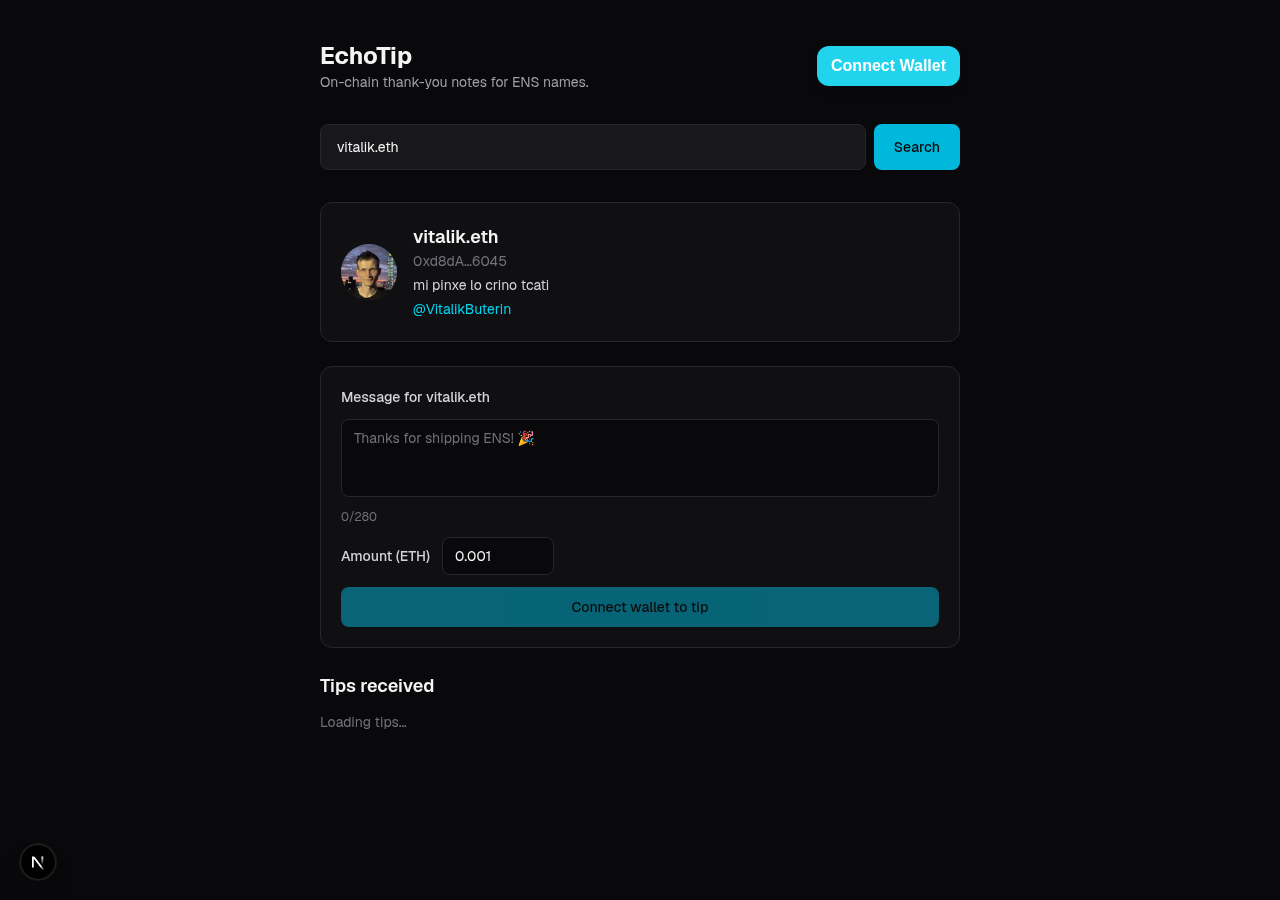
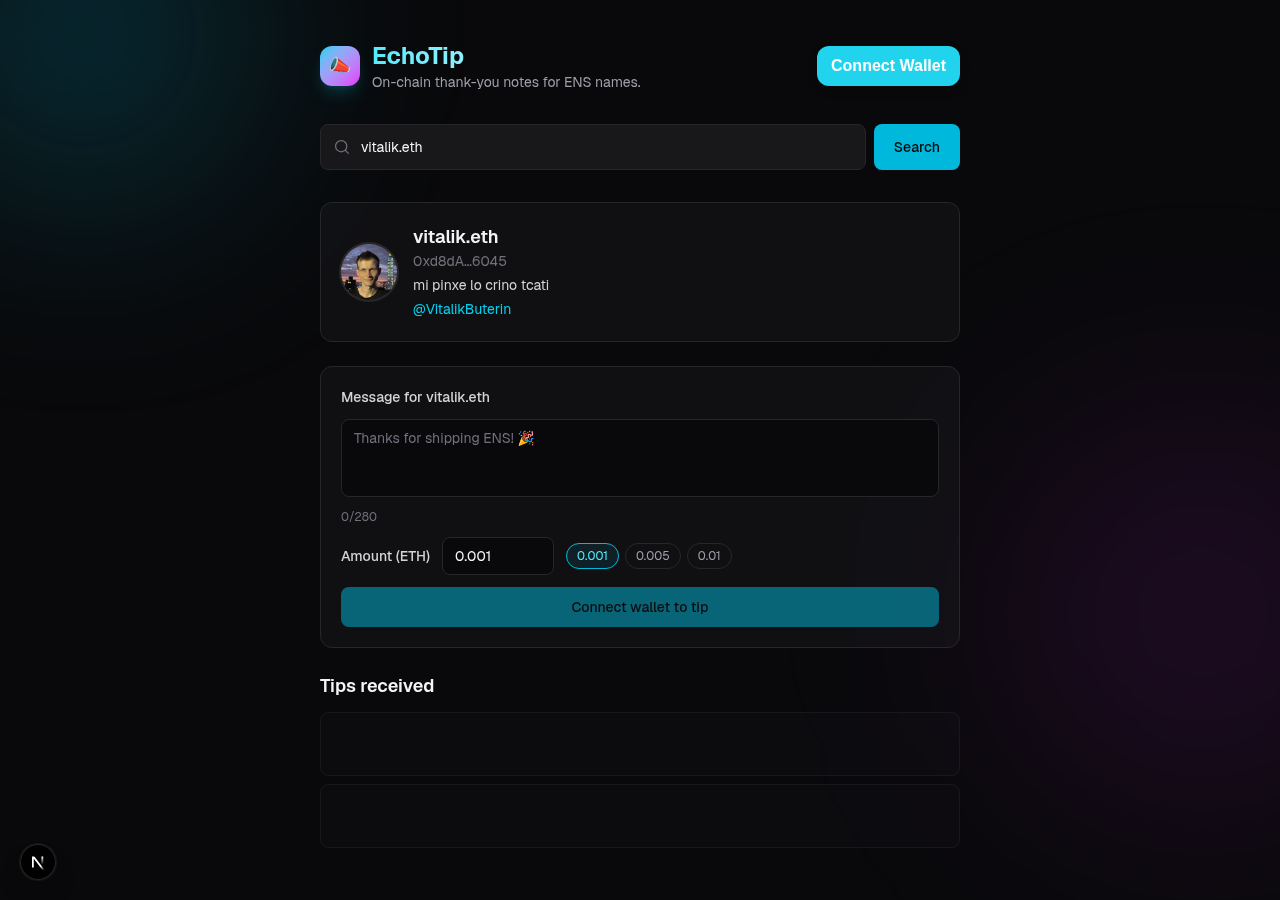
Polish frontend visuals: gradient accents, animations, micro-interactions
Adds an ambient drifting gradient background, a gradient logo mark and
title, entrance animations for resolved profiles and tip list items,
hover/press feedback on cards and buttons, a search icon, amount
presets on the tip form, and a pulse skeleton while tips load. Fixes
the raw-address avatar initials showing "0X" instead of real hex
digits. Updates the README screenshots to match.

diff --git a/app/components/TipForm.tsx b/app/components/TipForm.tsx
@@ -10,6 +10,7 @@ import {
 import { CONTRACT_ADDRESS, TIP_BOARD_ABI } from "../lib/contract";
 
 const MAX_MESSAGE_LENGTH = 280;
+const AMOUNT_PRESETS = ["0.001", "0.005", "0.01"];
 
 export function TipForm({
   recipientAddress,
@@ -69,11 +70,12 @@ export function TipForm({
 
   const error = writeError ?? receiptError;
   const busy = isPending || isConfirming;
+  const nearLimit = message.length > MAX_MESSAGE_LENGTH - 30;
 
   return (
     <form
       onSubmit={handleSubmit}
-      className="flex flex-col gap-3 rounded-xl border border-zinc-800 bg-zinc-900/50 p-5"
+      className="flex flex-col gap-3 rounded-xl border border-zinc-800 bg-zinc-900/50 p-5 transition-colors duration-300 hover:border-zinc-700"
     >
       <label className="text-sm font-medium text-zinc-300">
         Message for {recipientLabel}
@@ -83,15 +85,15 @@ export function TipForm({
         onChange={(e) => setMessage(e.target.value.slice(0, MAX_MESSAGE_LENGTH))}
         rows={3}
         placeholder="Thanks for shipping ENS! 🎉"
-        className="resize-none rounded-lg border border-zinc-800 bg-zinc-950 px-3 py-2 text-sm text-zinc-100 placeholder:text-zinc-500 focus:outline-none focus:ring-2 focus:ring-cyan-500"
+        className="resize-none rounded-lg border border-zinc-800 bg-zinc-950 px-3 py-2 text-sm text-zinc-100 placeholder:text-zinc-500 transition-shadow focus:outline-none focus:ring-2 focus:ring-cyan-500"
       />
-      <div className="flex items-center justify-between text-xs text-zinc-500">
-        <span>
+      <div className="flex items-center justify-between text-xs">
+        <span className={nearLimit ? "text-amber-400" : "text-zinc-500"}>
           {message.length}/{MAX_MESSAGE_LENGTH}
         </span>
       </div>
 
-      <div className="flex items-center gap-3">
+      <div className="flex flex-wrap items-center gap-3">
         <label className="text-sm font-medium text-zinc-300">Amount (ETH)</label>
         <input
           value={amount}
@@ -99,31 +101,52 @@ export function TipForm({
           type="number"
           min="0"
           step="0.001"
-          className="w-28 rounded-lg border border-zinc-800 bg-zinc-950 px-3 py-2 text-sm text-zinc-100 focus:outline-none focus:ring-2 focus:ring-cyan-500"
+          className="w-28 rounded-lg border border-zinc-800 bg-zinc-950 px-3 py-2 text-sm text-zinc-100 transition-shadow focus:outline-none focus:ring-2 focus:ring-cyan-500"
         />
+        <div className="flex gap-1.5">
+          {AMOUNT_PRESETS.map((preset) => (
+            <button
+              key={preset}
+              type="button"
+              onClick={() => setAmount(preset)}
+              className={`rounded-full border px-2.5 py-1 text-xs transition-colors ${
+                amount === preset
+                  ? "border-cyan-500 bg-cyan-500/10 text-cyan-300"
+                  : "border-zinc-800 text-zinc-400 hover:border-zinc-700 hover:text-zinc-200"
+              }`}
+            >
+              {preset}
+            </button>
+          ))}
+        </div>
       </div>
 
       <button
         type="submit"
         disabled={!isConnected || busy || !message.trim()}
-        className="rounded-lg bg-cyan-500 px-4 py-2.5 text-sm font-medium text-zinc-950 transition hover:bg-cyan-400 disabled:cursor-not-allowed disabled:opacity-50"
+        className="rounded-lg bg-cyan-500 px-4 py-2.5 text-sm font-medium text-zinc-950 transition-all duration-150 hover:bg-cyan-400 active:scale-[0.98] disabled:cursor-not-allowed disabled:opacity-50 disabled:active:scale-100"
       >
-        {!isConnected
-          ? "Connect wallet to tip"
-          : isPending
-            ? "Confirm in wallet…"
-            : isConfirming
-              ? "Sending tip…"
-              : "Send Tip"}
+        <span className="inline-flex items-center justify-center gap-2">
+          {busy && (
+            <span className="h-3.5 w-3.5 animate-spin rounded-full border-2 border-zinc-950/30 border-t-zinc-950" />
+          )}
+          {!isConnected
+            ? "Connect wallet to tip"
+            : isPending
+              ? "Confirm in wallet…"
+              : isConfirming
+                ? "Sending tip…"
+                : "Send Tip"}
+        </span>
       </button>
 
       {isConfirmed && (
-        <p className="text-sm text-green-400">
-          Tip sent! It should appear on the wall below.
+        <p className="text-sm text-green-400 [animation:fade-in-up_0.3s_ease-out_both]">
+          ✓ Tip sent! It should appear on the wall below.
         </p>
       )}
       {error && (
-        <p className="text-sm text-red-400">
+        <p className="text-sm text-red-400 [animation:fade-in-up_0.3s_ease-out_both]">
           {error.message.length > 160
             ? "Transaction failed. Please try again."
             : error.message}

diff --git a/app/components/ProfileSearch.tsx b/app/components/ProfileSearch.tsx
@@ -73,21 +73,41 @@ export function ProfileSearch({
   return (
     <form onSubmit={handleSubmit} className="flex flex-col gap-2">
       <div className="flex gap-2">
-        <input
-          value={input}
-          onChange={(e) => setInput(e.target.value)}
-          placeholder="Enter an ENS name or address (e.g. vitalik.eth)"
-          className="flex-1 rounded-lg border border-zinc-800 bg-zinc-900 px-4 py-3 text-sm text-zinc-100 placeholder:text-zinc-500 focus:outline-none focus:ring-2 focus:ring-cyan-500"
-        />
+        <div className="relative flex-1">
+          <svg
+            aria-hidden
+            viewBox="0 0 20 20"
+            fill="none"
+            className="pointer-events-none absolute top-1/2 left-3.5 h-4 w-4 -translate-y-1/2 text-zinc-500"
+          >
+            <path
+              d="M9 16A7 7 0 1 0 9 2a7 7 0 0 0 0 14ZM18 18l-3.8-3.8"
+              stroke="currentColor"
+              strokeWidth="1.5"
+              strokeLinecap="round"
+              strokeLinejoin="round"
+            />
+          </svg>
+          <input
+            value={input}
+            onChange={(e) => setInput(e.target.value)}
+            placeholder="Enter an ENS name or address (e.g. vitalik.eth)"
+            className="w-full rounded-lg border border-zinc-800 bg-zinc-900 py-3 pr-4 pl-10 text-sm text-zinc-100 placeholder:text-zinc-500 transition-shadow focus:border-cyan-500/50 focus:outline-none focus:ring-2 focus:ring-cyan-500"
+          />
+        </div>
         <button
           type="submit"
           disabled={loading}
-          className="shrink-0 rounded-lg bg-cyan-500 px-5 py-3 text-sm font-medium text-zinc-950 transition hover:bg-cyan-400 disabled:cursor-not-allowed disabled:opacity-50"
+          className="shrink-0 rounded-lg bg-cyan-500 px-5 py-3 text-sm font-medium text-zinc-950 transition-all duration-150 hover:bg-cyan-400 active:scale-[0.98] disabled:cursor-not-allowed disabled:opacity-50"
         >
           {loading ? "Resolving…" : "Search"}
         </button>
       </div>
-      {error && <p className="text-sm text-red-400">{error}</p>}
+      {error && (
+        <p className="text-sm text-red-400 [animation:fade-in-up_0.3s_ease-out_both]">
+          {error}
+        </p>
+      )}
     </form>
   );
 }

diff --git a/app/page.tsx b/app/page.tsx
@@ -14,11 +14,18 @@ export default function Home() {
   return (
     <div className="mx-auto flex w-full max-w-2xl flex-1 flex-col gap-8 px-4 py-10">
       <header className="flex items-center justify-between gap-4">
-        <div>
-          <h1 className="text-2xl font-bold">EchoTip</h1>
-          <p className="text-sm text-zinc-400">
-            On-chain thank-you notes for ENS names.
-          </p>
+        <div className="flex items-center gap-3">
+          <div className="flex h-10 w-10 shrink-0 items-center justify-center rounded-xl bg-gradient-to-br from-cyan-400 to-fuchsia-500 text-lg shadow-lg shadow-cyan-500/20">
+            📣
+          </div>
+          <div>
+            <h1 className="bg-gradient-to-r from-cyan-300 via-cyan-200 to-fuchsia-300 bg-clip-text text-2xl font-bold text-transparent">
+              EchoTip
+            </h1>
+            <p className="text-sm text-zinc-400">
+              On-chain thank-you notes for ENS names.
+            </p>
+          </div>
         </div>
         <ConnectButton />
       </header>
@@ -31,7 +38,10 @@ export default function Home() {
       />
 
       {profile && (
-        <div className="flex flex-col gap-6">
+        <div
+          key={profile.address}
+          className="flex flex-col gap-6 [animation:fade-in-up_0.4s_ease-out_both]"
+        >
           <ProfileCard profile={profile} />
           <TipForm
             recipientAddress={profile.address}
@@ -43,7 +53,7 @@ export default function Home() {
       )}
 
       {!profile && (
-        <p className="text-sm text-zinc-500">
+        <p className="rounded-xl border border-dashed border-zinc-800 px-4 py-6 text-center text-sm text-zinc-500 [animation:fade-in-up_0.4s_ease-out_both]">
           Search an ENS name above to see their profile and leave a tip.
         </p>
       )}

diff --git a/app/components/ProfileCard.tsx b/app/components/ProfileCard.tsx
@@ -6,11 +6,13 @@ function shorten(address: string) {
 
 export function ProfileCard({ profile }: { profile: ResolvedProfile }) {
   const label = profile.ensName ?? shorten(profile.address);
-  const initials = label.slice(0, 2).toUpperCase();
+  const initials = profile.ensName
+    ? profile.ensName.slice(0, 2).toUpperCase()
+    : profile.address.slice(2, 4).toUpperCase();
 
   return (
-    <div className="flex items-center gap-4 rounded-xl border border-zinc-800 bg-zinc-900/50 p-5">
-      <div className="h-14 w-14 shrink-0 overflow-hidden rounded-full bg-zinc-800">
+    <div className="flex items-center gap-4 rounded-xl border border-zinc-800 bg-zinc-900/50 p-5 transition-all duration-300 hover:-translate-y-0.5 hover:border-cyan-500/40 hover:shadow-[0_0_30px_-12px_rgba(34,211,238,0.5)]">
+      <div className="h-14 w-14 shrink-0 overflow-hidden rounded-full bg-zinc-800 ring-2 ring-zinc-800">
         {profile.avatar ? (
           // eslint-disable-next-line @next/next/no-img-element -- ENS avatars come from arbitrary external hosts
           <img
@@ -19,7 +21,7 @@ export function ProfileCard({ profile }: { profile: ResolvedProfile }) {
             className="h-full w-full object-cover"
           />
         ) : (
-          <div className="flex h-full w-full items-center justify-center text-lg font-semibold text-zinc-500">
+          <div className="flex h-full w-full items-center justify-center bg-gradient-to-br from-cyan-500/20 to-fuchsia-500/20 text-lg font-semibold text-cyan-300">
             {initials}
           </div>
         )}

diff --git a/app/components/MessageWall.tsx b/app/components/MessageWall.tsx
@@ -79,9 +79,18 @@ export function MessageWall({
         Tips received {tips ? `(${tips.length})` : ""}
       </h2>
 
-      {isLoading && <p className="text-sm text-zinc-500">Loading tips…</p>}
+      {isLoading && (
+        <div className="flex flex-col gap-2">
+          {[0, 1].map((i) => (
+            <div
+              key={i}
+              className="h-16 animate-pulse rounded-lg border border-zinc-800 bg-zinc-900/50"
+            />
+          ))}
+        </div>
+      )}
       {!isLoading && sorted.length === 0 && (
-        <p className="text-sm text-zinc-500">
+        <p className="rounded-lg border border-dashed border-zinc-800 px-4 py-6 text-center text-sm text-zinc-500">
           No tips yet — be the first to send one.
         </p>
       )}
@@ -90,7 +99,8 @@ export function MessageWall({
         {sorted.map((tip, i) => (
           <li
             key={i}
-            className="rounded-lg border border-zinc-800 bg-zinc-900/50 p-4"
+            style={{ animationDelay: `${Math.min(i, 8) * 60}ms` }}
+            className="rounded-lg border border-zinc-800 bg-zinc-900/50 p-4 transition-colors duration-200 [animation:fade-in-up_0.35s_ease-out_both] hover:border-zinc-700"
           >
             <div className="flex items-center justify-between text-sm">
               <span className="font-medium text-cyan-400">

diff --git a/app/layout.tsx b/app/layout.tsx
@@ -26,6 +26,10 @@ export default function RootLayout({ children }: LayoutProps<"/">) {
       className={`${geistSans.variable} ${geistMono.variable} h-full antialiased dark`}
     >
       <body className="min-h-full flex flex-col bg-zinc-950 text-zinc-100">
+        <div aria-hidden className="pointer-events-none fixed inset-0 -z-10 overflow-hidden">
+          <div className="absolute -top-24 -left-24 h-80 w-80 rounded-full bg-cyan-500/20 blur-[100px] [animation:blob-drift_14s_ease-in-out_infinite]" />
+          <div className="absolute top-1/2 -right-24 h-96 w-96 rounded-full bg-fuchsia-500/10 blur-[110px] [animation:blob-drift_18s_ease-in-out_infinite_reverse]" />
+        </div>
         <Providers>{children}</Providers>
       </body>
     </html>

diff --git a/app/globals.css b/app/globals.css
@@ -16,3 +16,24 @@ body {
   background: var(--background);
   color: var(--foreground);
 }
+
+@keyframes fade-in-up {
+  from {
+    opacity: 0;
+    transform: translateY(10px);
+  }
+  to {
+    opacity: 1;
+    transform: translateY(0);
+  }
+}
+
+@keyframes blob-drift {
+  0%,
+  100% {
+    transform: translate(0, 0) scale(1);
+  }
+  50% {
+    transform: translate(20px, -30px) scale(1.08);
+  }
+}
